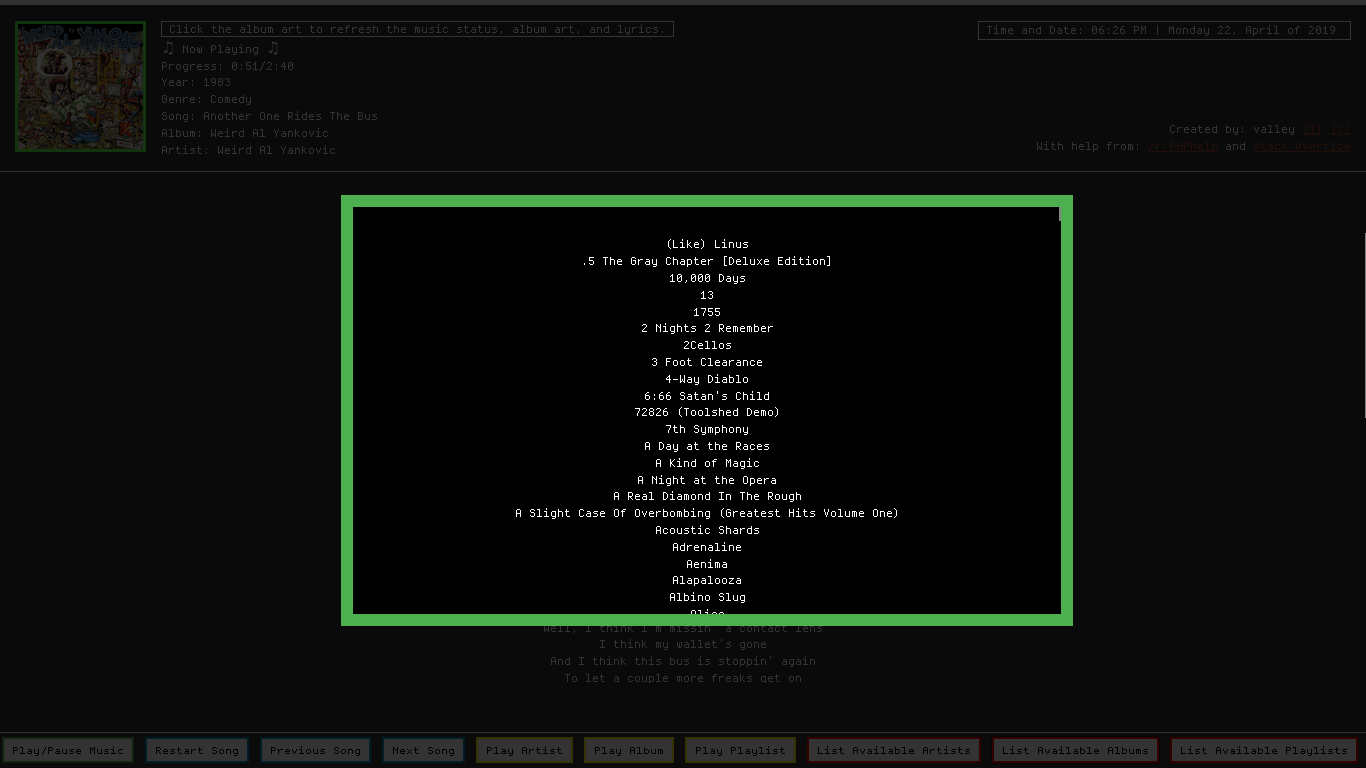
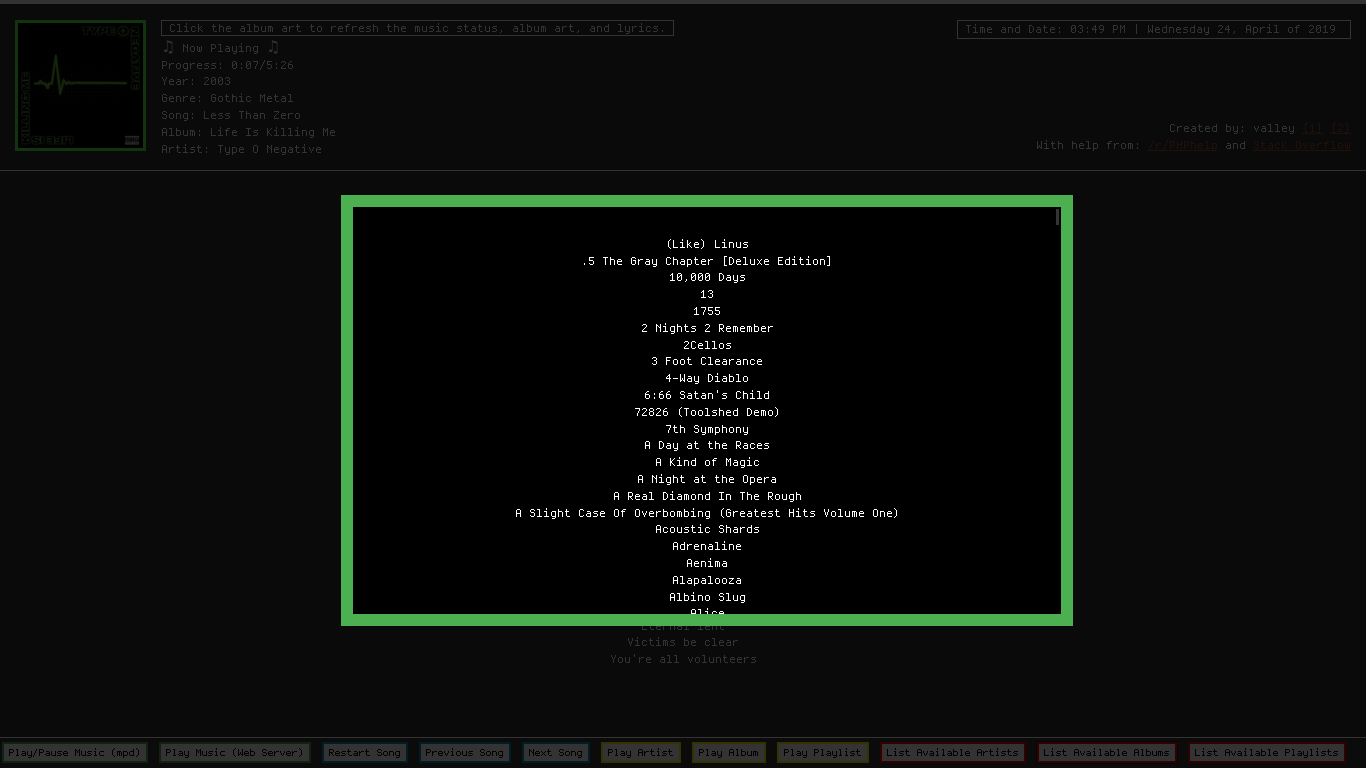
Updated and added more screenshots. Various tweaks were done to layout of player.

diff --git a/music-style.css b/music-style.css
@@ -7,6 +7,7 @@ html, body{
   	-o-background-size: cover;
   	background-size: cover;
 	color: #FFFFFF;
+	scrollbar-width: none;
 }
 	
 input {
@@ -18,16 +19,15 @@ input {
 }
 
 .button {
-  background-color: #4CAF50; /* Green */
+  background-color: #4CAF50;
   border: none;
   color: white;
-  padding: 2px 4px;
+  padding: 2px 5px;
   text-align: center;
   text-decoration: none;
   display: inline-block;
   font-size: 10px;
   margin: 4px 2px;
-  -webkit-transition-duration: 0.4s; /* Safari */
   transition-duration: 0.4s;
   cursor: pointer;
 }
@@ -155,7 +155,7 @@ input {
 
 .lyrics-container {
     width: auto;
-    height: 450px;
+    height: 470px;
     overflow: scroll;
     text-align:center;
 }
@@ -194,7 +194,7 @@ input {
 }
 
 .controls { 
-    height: 35px; 
+    height: 30px; 
     position: fixed; 
     bottom:0%;
     width:100%; 

diff --git a/music.php b/music.php
@@ -71,33 +71,45 @@ With help from: <a class="links" href="https://www.reddit.com/r/PHPhelp">/r/PHPh
 </div>
 <div id="fade3" class="black_overlay"></div>
 </div>
-
-// This is the start of the "Music Tree". It goes "Artists -> Albums -> Songs".
 <div id="light4" class="white_content">
-	<a class="button button11" href="javascript:void(0)" onclick="document.getElementById('light5').style.display='block';document.getElementById('fade5').style.display='block'">Artist 1</a><br/>
-	<a class="button button11" href="javascript:void(0)" onclick="document.getElementById('light7').style.display='block';document.getElementById('fade7').style.display='block'">Artist 2</a><br/>
+	<a class="button button11" href="javascript:void(0)" onclick="document.getElementById('light5').style.display='block';document.getElementById('fade5').style.display='block'">Hollywood Vampires</a><br/>
+	<a class="button button11" href="javascript:void(0)" onclick="document.getElementById('light7').style.display='block';document.getElementById('fade7').style.display='block'">Type O Negative</a><br/>
 	<a class="button button-link" href="javascript:void(0)" onclick="document.getElementById('light4').style.display='none';document.getElementById('fade4').style.display='none'">Close</a>
 </div>
 <div id="fade4" class="black_overlay"></div>
 <div id="light5" class="white_content">
-	<a class="button button11" href="javascript:void(0)" onclick="document.getElementById('light6').style.display='block';document.getElementById('fade6').style.display='block'">Album 1 From Artist 1</a><br/>
+	<a class="button button11" href="javascript:void(0)" onclick="document.getElementById('light6').style.display='block';document.getElementById('fade6').style.display='block'">(2015) Hollywood Vampires</a><br/>
 	<a class="button button-link" href="javascript:void(0)" onclick="document.getElementById('light5').style.display='none';document.getElementById('fade5').style.display='none'">Close</a>
 </div>
 <div id="light7" class="white_content">
-	<a class="button button11" href="javascript:void(0)" onclick="document.getElementById('light8').style.display='block';document.getElementById('fade8').style.display='block'">Album 1 From Artist 2</a><br/>
+	<a class="button button11" href="javascript:void(0)" onclick="document.getElementById('light8').style.display='block';document.getElementById('fade8').style.display='block'">(2007) Dead Again</a><br/>
 	<a class="button button-link" href="javascript:void(0)" onclick="document.getElementById('light7').style.display='none';document.getElementById('fade7').style.display='none'">Close</a>
 </div>
 <div id="light6" class="white_content">
-	<a onclick="XXX.paused?XXX.play():XXX.pause()"><audio id="XXX" src="/path/to/song1"></audio>Song 1 of Album 1 of Artist 1</a><br/>
-	<a onclick="XXY.paused?XXY.play():XXY.pause()"><audio id="XXY" src="/path/to/song2"></audio>Song 2 of Album 1 of Artist 1</a><br/>
+	<h5>ALL SONGS ARE CLICK TO TOGGLE</h5>
+	<a onclick="tlv.paused?tlv.play():tlv.pause()"><audio id="tlv" src="./music/Hollywood Vampires/(2015) Hollywood Vampires/01. The Last Vampire.flac"></audio>The Last Vampire</a><br/>
+	<a onclick="rtd.paused?rtd.play():rtd.pause()"><audio id="rtd" src="./music/Hollywood Vampires/(2015) Hollywood Vampires/02. Raise The Dead.flac"></audio>Raise The Dead</a><br/>
+	<a onclick="mg.paused?mg.play():mg.pause()"><audio id="mg" src="./music/Hollywood Vampires/(2015) Hollywood Vampires/03. My Generation.flac"></audio>My Generation</a><br/>
+	<a onclick="wll.paused?wll.play():wll.pause()"><audio id="wll" src="./music/Hollywood Vampires/(2015) Hollywood Vampires/04. Whole Lotta Love.flac"></audio>Whole Lotta Love</a><br/>
+	<a onclick="igaloy.paused?igaloy.play():igaloy.pause()"><audio id="igaloy" src="./music/Hollywood Vampires/(2015) Hollywood Vampires/05. I Got A Line On You.flac"></audio>I Got A Line On You</a><br/>
+	<a onclick="fto.paused?fto.play():fto.pause()"><audio id="fto" src="./music/Hollywood Vampires/(2015) Hollywood Vampires/06. Five To One_Break On Through (To The Other Side).flac"></audio>Five To One / Break On Through (To The Other Side)</a><br/>
+	<a onclick="oj.paused?oj.play():oj.pause()"><audio id="oj" src="./music/Hollywood Vampires/(2015) Hollywood Vampires/07. One_Jump Into The Fire.flac"></audio>One / Jump Into The Fire</a><br/>
+	<a onclick="cgi.paused?cgi.play():cgi.pause()"><audio id="cgi" src="./music/Hollywood Vampires/(2015) Hollywood Vampires/08. Come And Get It.flac"></audio>Come And Get It</a><br/>
+	<a onclick="j.paused?j.play():j.pause()"><audio id="j" src="./music/Hollywood Vampires/(2015) Hollywood Vampires/09. Jeepster.flac"></audio>Jeepster</a><br/>
+	<a onclick="ct.paused?ct.play():ct.pause()"><audio id="ct" src="./music/Hollywood Vampires/(2015) Hollywood Vampires/10. Cold Turkey.flac"></audio>Cold Turkey</a><br/>
+	<a onclick="md.paused?md.play():md.pause()"><audio id="md" src="./music/Hollywood Vampires/(2015) Hollywood Vampires/11. Manic Depression.flac"></audio>Manic Depression</a><br/>
+	<a onclick="ip.paused?ip.play():ip.pause()"><audio id="ip" src="./music/Hollywood Vampires/(2015) Hollywood Vampires/12. Itchycoo Park.flac"></audio>Itchycoo Park</a><br/>
+	<a onclick="so.paused?so.play():so.pause()"><audio id="so" src="./music/Hollywood Vampires/(2015) Hollywood Vampires/13. School's Out_Another Brick In The Wall.flac"></audio>School's Out / Another Brick In The Wall</a><br/>
+	<a onclick="mddf.paused?mddf.play():mddf.pause()"><audio id="mddf" src="./music/Hollywood Vampires/(2015) Hollywood Vampires/14. My Dead Drunk Friends.flac"></audio>My Dead Drunk Friends</a><br/>
 	<a class="button button-link" href="javascript:void(0)" onclick="document.getElementById('light6').style.display='none';document.getElementById('fade6').style.display='none'">Close</a>
 </div>
 <div id="light8" class="white_content">
-	<a onclick="XXZ.paused?XXZ.play():XXZ.pause()"><audio id="XXZ" src="/path/to/song1"></audio>Song 1 of Album 1 of Artist 2</a><br/>
+	<h5>ALL SONGS ARE CLICK TO TOGGLE</h5>
+	<a onclick="da.paused?da.play():da.pause()"><audio id="da" src="./music/Type O Negative/(2007) Dead Again/01. Dead Again.wav"></audio>Dead Again</a><br/>
+	<a onclick="tabm.paused?tabm.play():tabm.pause()"><audio id="tabm" src="./music/Type O Negative/(2007) Dead Again/02. Tripping a Blind Man.wav"></audio>Tripping a Blind Man</a><br/>
 	<a class="button button-link" href="javascript:void(0)" onclick="document.getElementById('light8').style.display='none';document.getElementById('fade8').style.display='none'">Close</a>
 </div>
-// This is the end of the "Music Tree".
-<h3 style="text-align:center">LYRICS</h3>
+<h4 style="text-align:center">LYRICS</h4>
 <div class="lyrics-container" name="lyrics">
 <?php 
 $artist = shell_exec('mpc -f %artist% | head -n1');
@@ -165,7 +177,7 @@ fclose($f);
 </form>
 
 <form class="buttons" action="" method="post">
-    <a class="button button11" href="javascript:void(0)" onclick="document.getElementById('light4').style.display='block';document.getElementById('fade4').style.display='block'">Play Song (Web Server)</a>
+    <a class="button button11" href="javascript:void(0)" onclick="document.getElementById('light4').style.display='block';document.getElementById('fade4').style.display='block'">Play Music (Web Server)</a>
 </form>
 
 <?php if (isset($_POST['button2'])) { exec('mpc cdprev'); } ?>

diff --git a/README.md b/README.md
@@ -37,3 +37,9 @@ To access, go to "http(s)://server.address/music.php".
 ![List Albums](/Screenshots/List%20Albums.png?raw=true "List Albums")
 **List Playlists**
 ![List Playlists](/Screenshots/List%20Playlists.png?raw=true "List Playlists")
+**Play Music From Server - Artists**
+![Play Music From Server - Artists](/Screenshots/Play%20From%20Server%20-%20Artists.png?raw=true "Play Music From Server - Artists")
+**Play From Server - Albums From Artist**
+![Play From Server - Albums From Artist.png](/Screenshots/Play%20From%20Server%20-%20Albums%20From%20Artist.png?raw=true "Play From Server - Albums From Artist")
+**List Playlists**
+![Play From Server - Songs from Album from Artist](/Screenshots/Play%20From%20Server%20-%20Songs%20from%20Album%20from%20Artist.png?raw=true "Play From Server - Songs from Album from Artist")
